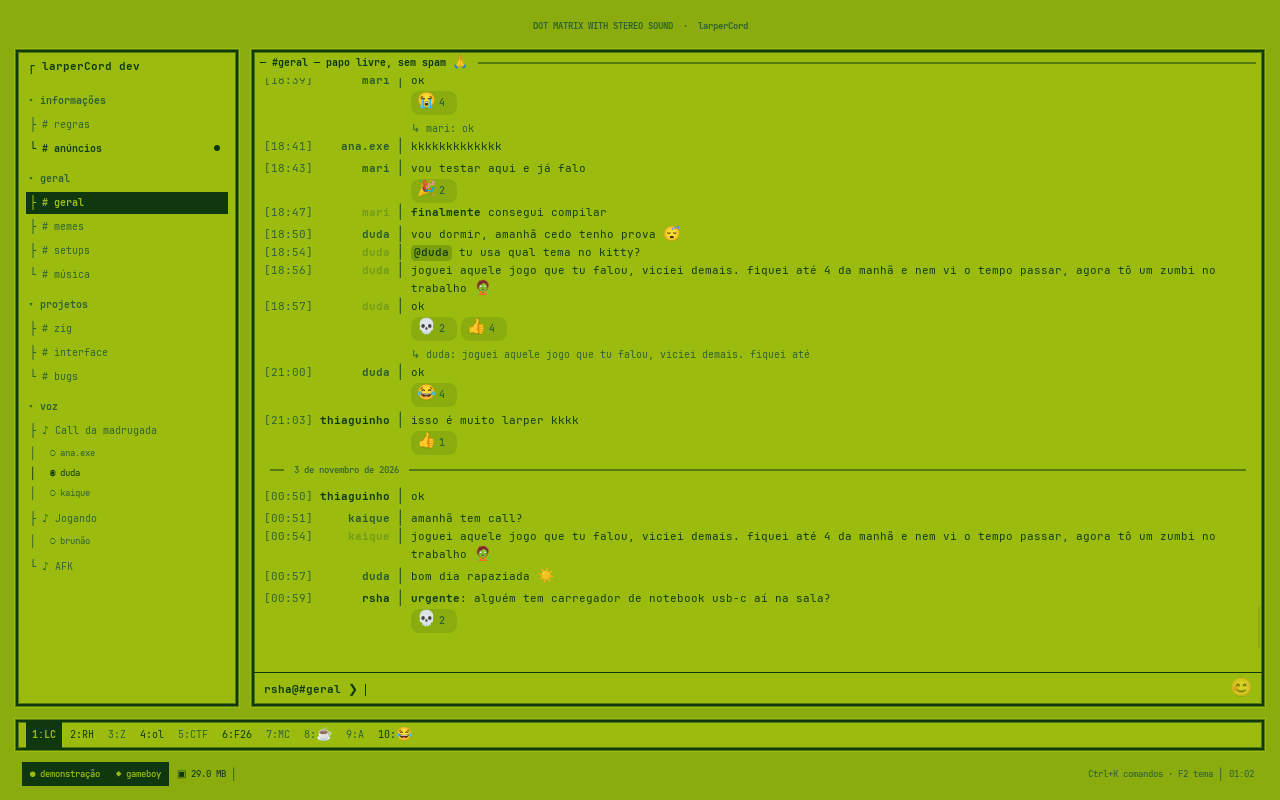
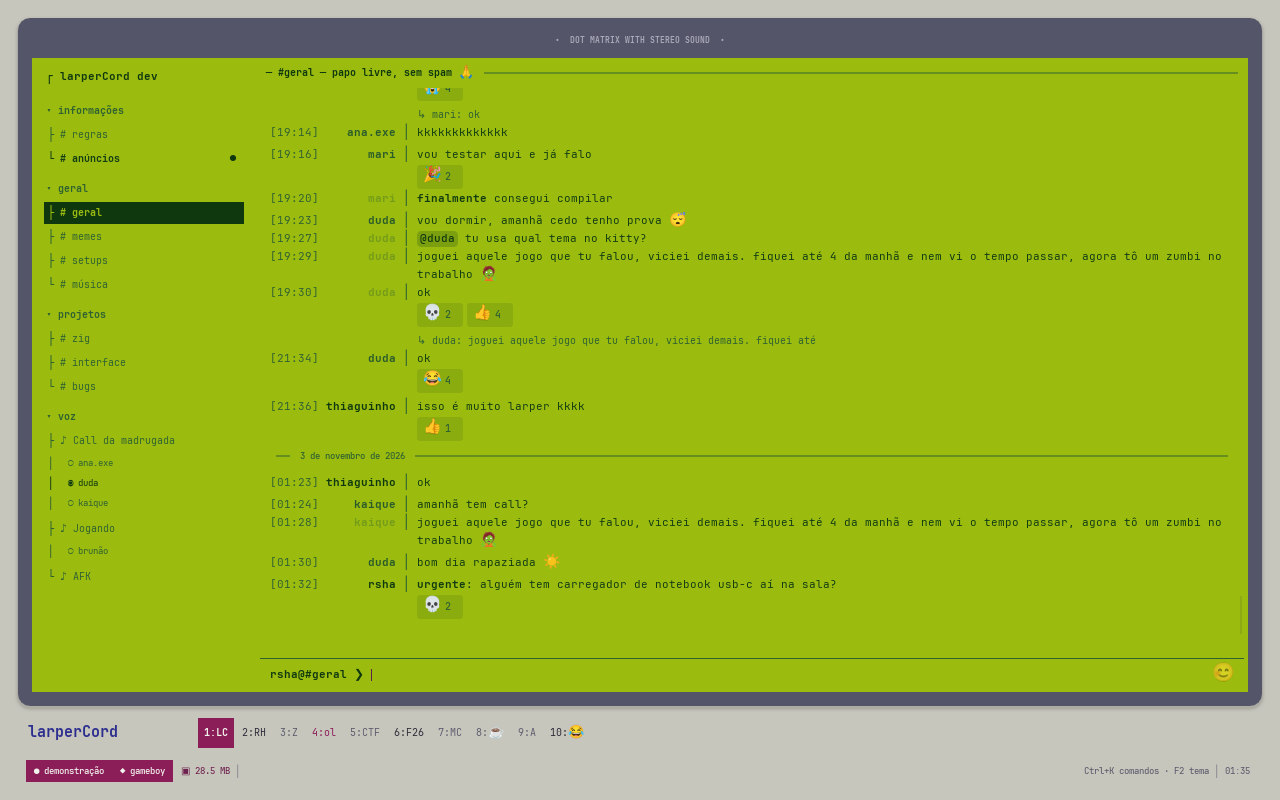
Temas redesenhados (neon, papel, zen, gameboy, escritorio); fontes por componente e estilos de ícone

diff --git a/themes/README.md b/themes/README.md
@@ -92,14 +92,14 @@ Contêineres: `row` (horizontal), `column` (vertical), `stack` (um sobre o outro
 | `hide-below=` | esconde quando a janela é mais estreita que isso |
 | `show=#false` | esconde |
 | `style=` / `bg=` `radius=` | fundo do nó |
-| `font=mono` | usa a fonte monoespaçada no componente |
+| `font=mono` / `font=ui` / `font="Liberation Serif"` | fonte do componente: a mono, a da interface ou **qualquer família instalada** |
 | `c-<token>=cor` | sobrescreve um token de cor **neste nó e nos filhos** (ex.: `c-text="#fff"` numa barra lateral escura) |
 
 ## Componentes
 
 | Componente | Propriedades |
 |---|---|
-| `guild-bar` | `variant=bar\|dock\|list` `orientation=vertical\|horizontal` `shape=circle\|squircle\|square\|text` `size=48` `labels=#true` `home=#false` |
+| `guild-bar` | `variant=bar\|dock\|list` `icon-style=fill\|soft\|outline` `orientation=vertical\|horizontal` `shape=circle\|squircle\|square\|text` `size=48` `labels=#true` `home=#false` |
 | `channel-list` | `variant=discord\|tree\|pills` `header=#false` |
 | `user-panel` | `variant=discord\|tty` |
 | `header` | `variant=discord\|minimal\|tty` `divider=#false` |
@@ -127,3 +127,17 @@ Um nome que não existe aparece com uma borda vermelha e a linha do arquivo, pra
 
 Os testes (`zig build test`) carregam todos os temas embutidos e montam o layout de cada um.
 Se você mandar um tema novo num pull request, ele é verificado automaticamente.
+
+## Dicas de design
+
+O que separa um tema bonito de um tema estranho quase nunca é a cor de destaque. Normalmente é:
+
+- **Um conceito só.** "Caderno", "terminal", "portátil de 1989"… e tudo segue ele: cores,
+  fonte, cantos e bordas.
+- **Superfícies que se separam.** Fundo, painéis e elementos elevados precisam de degraus de
+  luminosidade claros. Roxo sobre roxo sobre roxo vira uma massa só.
+- **Poucas cores acesas.** Uma de destaque e, no máximo, uma secundária. Use `roles` com cores da
+  mesma família para os nomes não virarem um arco-íris.
+- **Uma fonte de texto**, e no máximo uma de títulos (`header … font="Liberation Serif"`).
+- **Contraste suficiente** para `text`, `muted` e `faint` sobre o fundo de cada painel. Use `c-…`
+  quando um pedaço do layout tem fundo bem diferente (barra lateral escura num tema claro).
